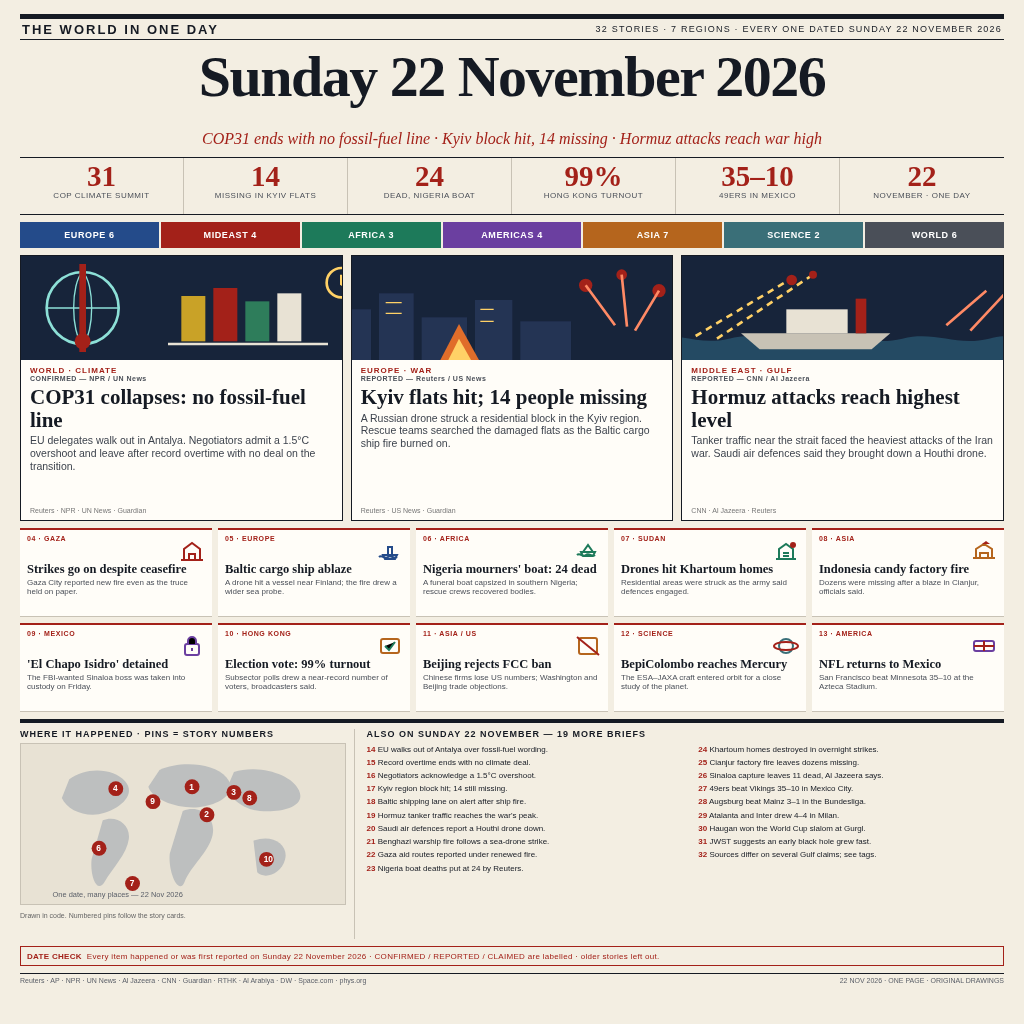
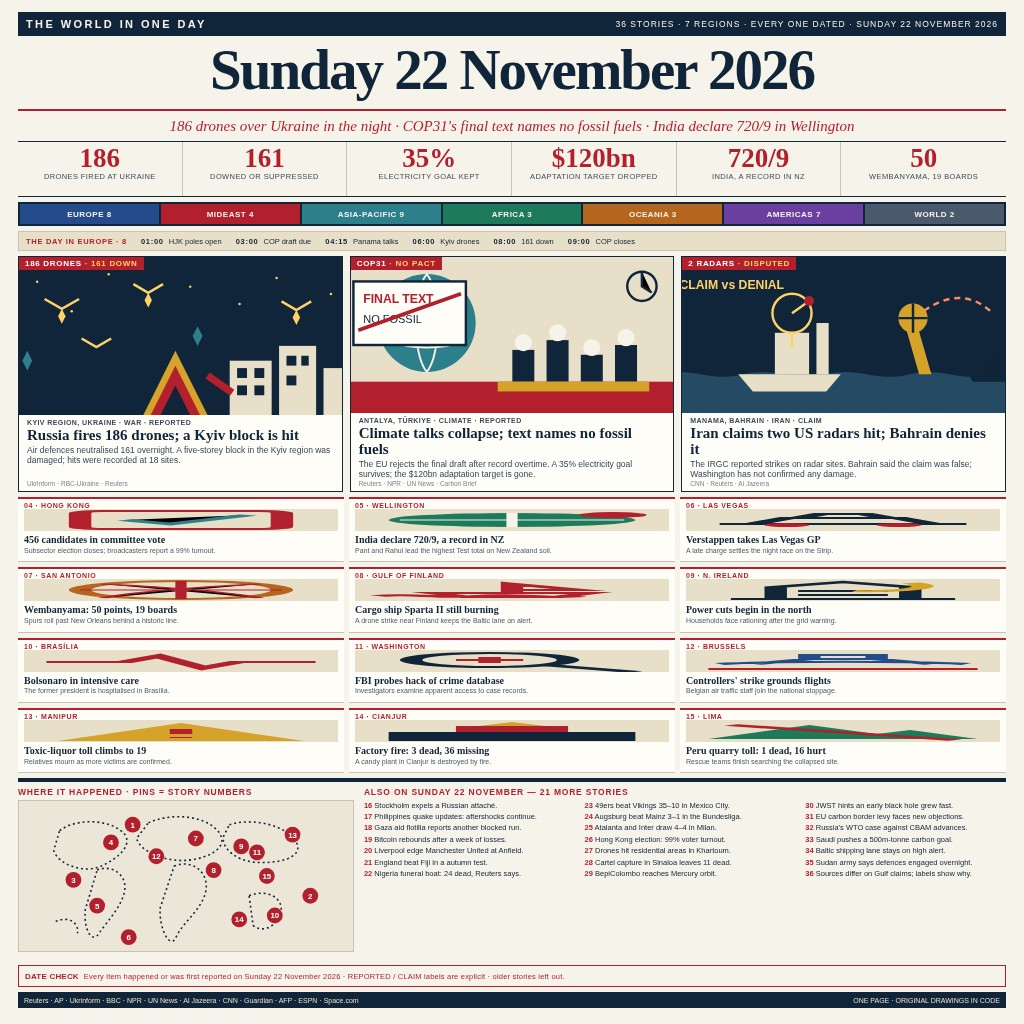
Rebuild news poster image-first with 36 stories and lower-left map

diff --git a/poster.html b/poster.html
@@ -3,187 +3,198 @@
 <style>
   *{box-sizing:border-box}
   html,body{margin:0;width:1024px;height:1024px;overflow:hidden}
-  body{font-family:'Liberation Sans',Arial,sans-serif;background:#f3eee2;color:#151a23;padding:14px 20px}
-  .page{height:996px;display:flex;flex-direction:column;gap:7px}
+  body{font-family:'Liberation Sans',Arial,sans-serif;background:#f6f3ea;color:#10243a;padding:12px 18px}
+  .page{height:996px;display:flex;flex-direction:column;gap:5px}
   .serif{font-family:Georgia,'Liberation Serif','Times New Roman',serif}
-  .masthead{height:26px;display:flex;justify-content:space-between;align-items:center;border-top:5px solid #151a23;border-bottom:1px solid #151a23;padding:0 2px}
-  .masthead b{font-size:13px;letter-spacing:2px}
-  .masthead span{font-size:9px;letter-spacing:1.2px;text-transform:uppercase}
-  .dateblock{height:74px;text-align:center}
-  .dateblock h1{font-size:58px;line-height:1.02;margin:0;font-weight:900;letter-spacing:-1.5px}
-  .deck{height:22px;text-align:center;font-size:16px;font-style:italic;color:#a32119;line-height:22px}
-  .stats{height:58px;display:grid;grid-template-columns:repeat(6,1fr);border-top:1px solid #151a23;border-bottom:1px solid #151a23}
-  .stat{text-align:center;padding:4px 4px 0;border-right:1px solid #c8c2b5}
+  .masthead{height:24px;background:#10243a;color:#f6f3ea;display:flex;justify-content:space-between;align-items:center;padding:0 8px}
+  .masthead b{font-size:11px;letter-spacing:2.4px}
+  .masthead span{font-size:8.5px;letter-spacing:1px}
+  .dateblock{height:70px;text-align:center;border-bottom:2px solid #b21f2d}
+  .dateblock h1{font-size:57px;line-height:1.03;margin:0;font-weight:900;letter-spacing:-2px}
+  .deck{height:20px;text-align:center;font-size:15px;font-style:italic;color:#b21f2d;line-height:20px}
+  .stats{height:56px;display:grid;grid-template-columns:repeat(6,1fr);border-top:1px solid #10243a;border-bottom:1px solid #10243a}
+  .stat{text-align:center;padding:3px 3px 0;border-right:1px solid #c8c2b5}
   .stat:last-child{border-right:0}
-  .stat b{display:block;font-size:29px;line-height:29px;color:#a32119;font-family:Georgia,'Liberation Serif',serif}
-  .stat span{display:block;font-size:8px;line-height:10px;text-transform:uppercase;letter-spacing:.5px;color:#4a4f58}
-  .regions{height:26px;display:grid;grid-template-columns:repeat(7,1fr);gap:2px}
-  .region{color:#fff;font-size:9px;font-weight:700;letter-spacing:.6px;display:flex;align-items:center;justify-content:center;text-transform:uppercase}
-  .leads{height:266px;display:grid;grid-template-columns:repeat(3,1fr);gap:8px}
-  .lead{border:1px solid #151a23;background:#fffdf8;display:flex;flex-direction:column;overflow:hidden}
-  .lead .art{height:104px;background:#17243a;overflow:hidden}
+  .stat b{display:block;font-size:27px;line-height:27px;color:#b21f2d;font-family:Georgia,'Liberation Serif',serif}
+  .stat span{display:block;font-size:7.5px;line-height:9px;text-transform:uppercase;letter-spacing:.4px;color:#3a4a5e}
+  .regions{height:24px;display:grid;grid-template-columns:repeat(7,1fr);gap:2px;background:#10243a;padding:2px}
+  .region{color:#f6f3ea;font-size:8px;font-weight:700;letter-spacing:.5px;display:flex;align-items:center;justify-content:center;text-transform:uppercase}
+  .timeline{height:20px;background:#e8dfc9;border:1px solid #c8c2b5;display:flex;align-items:center;gap:14px;padding:0 7px;font-size:7.5px;white-space:nowrap;overflow:hidden}
+  .timeline b{color:#b21f2d;letter-spacing:.7px}
+  .timeline span b{color:#10243a;margin-right:3px}
+  .leads{height:236px;display:grid;grid-template-columns:repeat(3,1fr);gap:7px}
+  .lead{border:1px solid #10243a;background:#fffdf7;display:flex;flex-direction:column;overflow:hidden}
+  .lead .art{height:158px;position:relative;overflow:hidden}
   .lead .art svg{width:100%;height:100%;display:block}
-  .lead .body{padding:6px 9px;flex:1;display:flex;flex-direction:column}
-  .tag{font-size:8px;font-weight:800;letter-spacing:1px;color:#a32119;text-transform:uppercase}
-  .status{font-size:7px;font-weight:700;color:#4a4f58;letter-spacing:.5px}
-  .lead h2{font-size:21px;line-height:1.08;margin:4px 0 3px;font-weight:800}
-  .lead p{font-size:10.5px;line-height:1.22;margin:0;color:#3d434d}
-  .src{font-size:7px;color:#777;margin-top:auto;padding-top:3px}
-  .secondary{height:184px;display:grid;grid-template-columns:repeat(5,1fr);grid-template-rows:repeat(2,1fr);gap:6px}
-  .cell{border-top:2px solid #a32119;background:#fffdf8;border-bottom:1px solid #c8c2b5;padding:5px 7px;overflow:hidden}
-  .cell .k{font-size:7px;font-weight:800;color:#a32119;letter-spacing:.6px;text-transform:uppercase}
-  .cell svg{width:26px;height:22px;float:right;margin-top:-2px}
-  .cell h3{font-size:12.5px;line-height:1.12;margin:3px 0 2px;font-weight:800;clear:both}
-  .cell p{font-size:8px;line-height:1.17;margin:0;color:#4a4f58}
-  .bottom{height:220px;display:grid;grid-template-columns:34% 66%;gap:12px;border-top:4px solid #151a23;padding-top:6px}
-  .mapbox{border-right:1px solid #c8c2b5;padding-right:8px}
-  .mapbox h4,.briefs h4{font-size:9px;letter-spacing:1px;margin:0 0 4px;text-transform:uppercase}
-  .mapbox svg{width:100%;height:162px;background:#e8e2d4;border:1px solid #c8c2b5}
-  .mapnote{font-size:7px;color:#666;margin-top:3px}
-  .briefs{columns:2;column-gap:14px;font-size:8px;line-height:1.28}
+  .kick{position:absolute;top:0;left:0;background:#b21f2d;color:#fff;font-size:8px;font-weight:800;letter-spacing:.7px;padding:2px 6px;text-transform:uppercase}
+  .kick span{color:#ffd166}
+  .lead .body{padding:4px 8px;flex:1;display:flex;flex-direction:column}
+  .by{font-size:7px;font-weight:700;letter-spacing:.4px;color:#3a4a5e;text-transform:uppercase}
+  .lead h2{font-size:15px;line-height:1.05;margin:2px 0 1px;font-weight:800}
+  .lead p{font-size:8.5px;line-height:1.18;margin:0;color:#33465c}
+  .src{font-size:6.5px;color:#7a8490;margin-top:auto;padding-top:1px}
+  .secondary{height:276px;display:grid;grid-template-columns:repeat(3,1fr);grid-template-rows:repeat(4,1fr);gap:5px}
+  .cell{border-top:2px solid #b21f2d;background:#fffdf7;border-bottom:1px solid #c8c2b5;padding:3px 6px;overflow:hidden;display:flex;flex-direction:column}
+  .cell .k{font-size:7px;font-weight:800;color:#b21f2d;letter-spacing:.6px;text-transform:uppercase}
+  .cell svg{width:100%;height:22px;float:none;margin:0 0 2px;display:block;background:#e8dfc9}
+  .cell h3{font-size:10px;line-height:1.08;margin:2px 0 1px;font-weight:800;clear:both}
+  .cell p{font-size:7px;line-height:1.12;margin:0;color:#4a5a6c}
+  .bottom{height:182px;display:grid;grid-template-columns:34% 66%;gap:10px;border-top:4px solid #10243a;padding-top:5px}
+  .mapbox h4,.briefs h4{font-size:8.5px;letter-spacing:.8px;margin:0 0 3px;text-transform:uppercase;color:#b21f2d}
+  .mapbox svg{width:100%;height:152px;background:#ece6d8;border:1px solid #c8c2b5}
+  .briefs{columns:3;column-gap:10px;font-size:7.5px;line-height:1.25}
   .briefs h4{column-span:all}
-  .briefs div{break-inside:avoid;margin-bottom:3px;padding-left:14px;text-indent:-14px}
-  .briefs b{color:#a32119}
-  .datacheck{height:20px;border:1px solid #a32119;color:#a32119;font-size:8px;display:flex;align-items:center;padding:0 6px;letter-spacing:.3px}
+  .briefs div{break-inside:avoid;margin-bottom:2px;padding-left:12px;text-indent:-12px}
+  .briefs b{color:#b21f2d}
+  .datacheck{height:22px;border:1px solid #b21f2d;color:#b21f2d;font-size:7.5px;display:flex;align-items:center;padding:0 6px;letter-spacing:.2px}
   .datacheck b{font-size:8px;margin-right:5px}
-  .footer{height:16px;display:flex;justify-content:space-between;font-size:7px;color:#5a5f68;border-top:1px solid #151a23;padding-top:3px}
+  .footer{height:16px;background:#10243a;color:#e8dfc9;display:flex;justify-content:space-between;align-items:center;padding:0 6px;font-size:7px}
 </style></head>
 <body><div class="page">
 
-  <div class="masthead"><b>THE WORLD IN ONE DAY</b><span>32 stories · 7 regions · every one dated Sunday 22 November 2026</span></div>
+  <div class="masthead"><b>THE WORLD IN ONE DAY</b><span>36 STORIES · 7 REGIONS · EVERY ONE DATED · SUNDAY 22 NOVEMBER 2026</span></div>
   <div class="dateblock serif"><h1>Sunday 22 November 2026</h1></div>
-  <div class="deck serif">COP31 ends with no fossil-fuel line · Kyiv block hit, 14 missing · Hormuz attacks reach war high</div>
+  <div class="deck serif">186 drones over Ukraine in the night · COP31's final text names no fossil fuels · India declare 720/9 in Wellington</div>
 
   <div class="stats">
-    <div class="stat"><b>31</b><span>COP climate summit</span></div>
-    <div class="stat"><b>14</b><span>missing in Kyiv flats</span></div>
-    <div class="stat"><b>24</b><span>dead, Nigeria boat</span></div>
-    <div class="stat"><b>99%</b><span>Hong Kong turnout</span></div>
-    <div class="stat"><b>35–10</b><span>49ers in Mexico</span></div>
-    <div class="stat"><b>22</b><span>November · one day</span></div>
+    <div class="stat"><b>186</b><span>drones fired at Ukraine</span></div>
+    <div class="stat"><b>161</b><span>downed or suppressed</span></div>
+    <div class="stat"><b>35%</b><span>electricity goal kept</span></div>
+    <div class="stat"><b>$120bn</b><span>adaptation target dropped</span></div>
+    <div class="stat"><b>720/9</b><span>India, a record in NZ</span></div>
+    <div class="stat"><b>50</b><span>Wembanyama, 19 boards</span></div>
   </div>
 
   <div class="regions">
-    <div class="region" style="background:#244b8a">Europe 6</div>
-    <div class="region" style="background:#a32119">Mideast 4</div>
+    <div class="region" style="background:#244b8a">Europe 8</div>
+    <div class="region" style="background:#b21f2d">Mideast 4</div>
+    <div class="region" style="background:#2e7f8c">Asia-Pacific 9</div>
     <div class="region" style="background:#1d7a5a">Africa 3</div>
-    <div class="region" style="background:#6b3fa0">Americas 4</div>
-    <div class="region" style="background:#b5651d">Asia 7</div>
-    <div class="region" style="background:#3a6f78">Science 2</div>
-    <div class="region" style="background:#4a4f58">World 6</div>
+    <div class="region" style="background:#b5651d">Oceania 3</div>
+    <div class="region" style="background:#6b3fa0">Americas 7</div>
+    <div class="region" style="background:#4a5a6c">World 2</div>
+  </div>
+
+  <div class="timeline"><b>THE DAY IN EUROPE · 8</b>
+    <span><b>01:00</b> HJK poles open</span><span><b>03:00</b> COP draft due</span><span><b>04:15</b> Panama talks</span><span><b>06:00</b> Kyiv drones</span><span><b>08:00</b> 161 down</span><span><b>09:00</b> COP closes</span>
   </div>
 
   <div class="leads">
     <div class="lead">
-      <div class="art"><svg viewBox="0 0 300 78" preserveAspectRatio="xMidYMid slice">
-        <rect width="300" height="78" fill="#17243a"/>
-        <circle cx="76" cy="39" r="27" fill="none" stroke="#8de0d7" stroke-width="2"/>
-        <path d="M49 39h54M76 12c9 8 9 46 0 54M76 12c-9 8-9 46 0 54" stroke="#8de0d7" fill="none"/>
-        <path d="M76 6v66" stroke="#a32119" stroke-width="5"/>
-        <circle cx="76" cy="64" r="6" fill="#a32119"/>
-        <rect x="150" y="30" width="18" height="34" fill="#c9a227"/><rect x="174" y="24" width="18" height="40" fill="#a32119"/>
-        <rect x="198" y="34" width="18" height="30" fill="#2e7d5b"/><rect x="222" y="28" width="18" height="36" fill="#e8e2d4"/>
-        <path d="M140 66h120" stroke="#e8e2d4" stroke-width="2"/>
-        <circle cx="270" cy="20" r="11" fill="none" stroke="#ffd166" stroke-width="2"/><path d="M270 14v7l5 3" stroke="#ffd166" stroke-width="2"/>
-      </svg></div>
-      <div class="body"><div class="tag">World · Climate</div><div class="status">CONFIRMED — NPR / UN News</div>
-        <h2 class="serif">COP31 collapses: no fossil-fuel line</h2>
-        <p>EU delegates walk out in Antalya. Negotiators admit a 1.5°C overshoot and leave after record overtime with no deal on the transition.</p>
-        <div class="src">Reuters · NPR · UN News · Guardian</div></div>
+      <div class="art"><svg viewBox="0 0 300 128" preserveAspectRatio="xMidYMid slice">
+        <rect width="300" height="128" fill="#10243a"/>
+        <g fill="#ffd166"><circle cx="34" cy="20" r="1"/><circle cx="92" cy="14" r="1"/><circle cx="158" cy="24" r="1"/><circle cx="228" cy="17" r="1"/><circle cx="272" cy="30" r="1"/><circle cx="62" cy="44" r="1"/><circle cx="198" cy="38" r="1"/></g>
+        <g stroke="#ffd166" stroke-width="2" fill="none"><path d="M40 34l14 8 14-8M112 22l12 7 12-7M232 36l12 7 12-7M70 66l12 7 12-7"/></g>
+        <g fill="#ffd166"><path d="M54 42l-3 6 3 6 3-6z"/><path d="M124 29l-3 6 3 6 3-6z"/><path d="M244 43l-3 6 3 6 3-6z"/></g>
+        <g fill="#2e7f8c"><path d="M26 76l-4 8 4 8 4-8z"/><path d="M164 56l-4 8 4 8 4-8z"/></g>
+        <path d="M120 128l26-52 26 52z" fill="#d6a32a"/><path d="M126 128l20-40 20 40z" fill="#b21f2d"/><path d="M134 128l12-24 12 24z" fill="#10243a"/>
+        <g fill="#e8dfc9"><rect x="190" y="84" width="34" height="44"/><rect x="230" y="72" width="30" height="56"/><rect x="266" y="90" width="28" height="38"/></g>
+        <g fill="#10243a"><rect x="196" y="90" width="8" height="8"/><rect x="210" y="90" width="8" height="8"/><rect x="196" y="104" width="8" height="8"/><rect x="210" y="104" width="8" height="8"/><rect x="236" y="80" width="8" height="8"/><rect x="248" y="80" width="6" height="8"/><rect x="236" y="96" width="8" height="8"/></g>
+        <path d="M172 96l20 14" stroke="#b21f2d" stroke-width="6"/>
+      </svg><div class="kick">186 DRONES <span>· 161 DOWN</span></div></div>
+      <div class="body"><div class="by">Kyiv region, Ukraine · War · REPORTED</div>
+        <h2 class="serif">Russia fires 186 drones; a Kyiv block is hit</h2>
+        <p>Air defences neutralised 161 overnight. A five-storey block in the Kyiv region was damaged; hits were recorded at 18 sites.</p>
+        <div class="src">Ukrinform · RBC-Ukraine · Reuters</div></div>
     </div>
     <div class="lead">
-      <div class="art"><svg viewBox="0 0 300 78" preserveAspectRatio="xMidYMid slice">
-        <rect width="300" height="78" fill="#17243a"/>
-        <g fill="#243454"><rect x="14" y="40" width="30" height="38"/><rect x="50" y="28" width="26" height="50"/><rect x="82" y="46" width="34" height="32"/><rect x="122" y="33" width="28" height="45"/><rect x="156" y="49" width="38" height="29"/></g>
-        <g stroke="#ffd166" stroke-width="1"><path d="M55 35h12M55 43h12M126 40h10M126 49h10"/></g>
-        <g fill="#a32119"><circle cx="205" cy="22" r="5"/><circle cx="232" cy="14" r="4"/><circle cx="260" cy="26" r="5"/><circle cx="280" cy="12" r="3"/></g>
-        <g stroke="#ff8a65" stroke-width="2" fill="none"><path d="M205 22l22 30M232 14l4 39M260 26l-18 30"/></g>
-        <path d="M96 78l14-27 15 27z" fill="#e06d2a"/><path d="M102 78l8-16 9 16z" fill="#ffd166"/>
-      </svg></div>
-      <div class="body"><div class="tag">Europe · War</div><div class="status">REPORTED — Reuters / US News</div>
-        <h2 class="serif">Kyiv flats hit; 14 people missing</h2>
-        <p>A Russian drone struck a residential block in the Kyiv region. Rescue teams searched the damaged flats as the Baltic cargo ship fire burned on.</p>
-        <div class="src">Reuters · US News · Guardian</div></div>
+      <div class="art"><svg viewBox="0 0 300 128" preserveAspectRatio="xMidYMid slice">
+        <rect width="300" height="128" fill="#e8dfc9"/>
+        <circle cx="80" cy="54" r="40" fill="#2e7f8c"/>
+        <g fill="none" stroke="#f6f3ea" stroke-width="1.5"><path d="M48 40c18 8 46 8 64 0M48 54c18 8 46 8 64 0M48 68c18 8 46 8 64 0M80 14c12 14 12 66 0 80M80 14c-12 14-12 66 0 80"/></g>
+        <rect x="0" y="102" width="300" height="26" fill="#b21f2d"/>
+        <g fill="#10243a"><rect x="150" y="76" width="18" height="26"/><rect x="178" y="68" width="18" height="34"/><rect x="206" y="80" width="18" height="22"/><rect x="234" y="72" width="18" height="30"/></g>
+        <g fill="#f6f3ea"><circle cx="159" cy="70" r="7"/><circle cx="187" cy="62" r="7"/><circle cx="215" cy="74" r="7"/><circle cx="243" cy="66" r="7"/></g>
+        <rect x="138" y="102" width="124" height="8" fill="#d6a32a"/>
+        <rect x="20" y="20" width="92" height="52" fill="#fffdf7" stroke="#10243a" stroke-width="2"/>
+        <text x="28" y="38" font-family="Arial" font-size="10" font-weight="bold" fill="#b21f2d">FINAL TEXT</text>
+        <text x="28" y="54" font-family="Arial" font-size="9" fill="#10243a">NO FOSSIL</text>
+        <path d="M24 60l84-30" stroke="#b21f2d" stroke-width="3"/>
+        <circle cx="256" cy="24" r="12" fill="none" stroke="#10243a" stroke-width="2"/><path d="M256 12v12l8 5" stroke="#10243a" stroke-width="2"/>
+      </svg><div class="kick">COP31 <span>· NO PACT</span></div></div>
+      <div class="body"><div class="by">Antalya, Türkiye · Climate · REPORTED</div>
+        <h2 class="serif">Climate talks collapse; text names no fossil fuels</h2>
+        <p>The EU rejects the final draft after record overtime. A 35% electricity goal survives; the $120bn adaptation target is gone.</p>
+        <div class="src">Reuters · NPR · UN News · Carbon Brief</div></div>
     </div>
     <div class="lead">
-      <div class="art"><svg viewBox="0 0 300 78" preserveAspectRatio="xMidYMid slice">
-        <rect width="300" height="78" fill="#17243a"/>
-        <path d="M0 62c25-7 40 6 65 0s40 6 65 0 40 6 65 0 40 6 65 0 30 4 40 0v16H0z" fill="#244a63"/>
-        <path d="M74 58h112l-14 12H88z" fill="#c8c2b5"/><rect x="108" y="40" width="46" height="18" fill="#e8e2d4"/><rect x="160" y="32" width="8" height="26" fill="#a32119"/>
-        <path d="M40 60l70-42M56 62l72-48" stroke="#ffd166" stroke-width="2" stroke-dasharray="5 4"/>
-        <circle cx="112" cy="18" r="4" fill="#a32119"/><circle cx="128" cy="14" r="3" fill="#a32119"/>
-        <path d="M228 52l30-26M246 56l28-30" stroke="#ff8a65" stroke-width="2"/>
-      </svg></div>
-      <div class="body"><div class="tag">Middle East · Gulf</div><div class="status">REPORTED — CNN / Al Jazeera</div>
-        <h2 class="serif">Hormuz attacks reach highest level</h2>
-        <p>Tanker traffic near the strait faced the heaviest attacks of the Iran war. Saudi air defences said they brought down a Houthi drone.</p>
-        <div class="src">CNN · Al Jazeera · Reuters</div></div>
+      <div class="art"><svg viewBox="0 0 300 128" preserveAspectRatio="xMidYMid slice">
+        <rect width="300" height="128" fill="#10243a"/>
+        <path d="M0 96c26-7 42 7 68 0s42 7 68 0 42 7 68 0 42 7 68 0 30 5 28 0v32H0z" fill="#244b63"/>
+        <g fill="#e8dfc9"><path d="M64 96h84l-12 14H76z"/><rect x="94" y="62" width="28" height="34"/><rect x="128" y="54" width="10" height="42"/></g>
+        <g fill="none" stroke="#ffd166" stroke-width="2"><circle cx="108" cy="46" r="16"/><path d="M108 46l14-10M108 62v12"/></g>
+        <circle cx="122" cy="36" r="4" fill="#b21f2d"/>
+        <g fill="#d6a32a"><path d="M212 96l-12-42h10l12 42z"/><circle cx="207" cy="50" r="12"/><path d="M195 50h24M207 38v24" stroke="#10243a" stroke-width="2"/></g>
+        <path d="M216 44c20-14 38-14 54 0" fill="none" stroke="#ff8a65" stroke-width="2" stroke-dasharray="5 4"/>
+        <g fill="#10243a"><path d="M250 92h38l-6 10h-26z"/><rect x="266" y="80" width="12" height="12"/></g>
+        <text x="16" y="26" font-family="Arial" font-size="10" font-weight="bold" fill="#ffd166">CLAIM vs DENIAL</text>
+      </svg><div class="kick">2 RADARS <span>· DISPUTED</span></div></div>
+      <div class="body"><div class="by">Manama, Bahrain · Iran · CLAIM</div>
+        <h2 class="serif">Iran claims two US radars hit; Bahrain denies it</h2>
+        <p>The IRGC reported strikes on radar sites. Bahrain said the claim was false; Washington has not confirmed any damage.</p>
+        <div class="src">CNN · Reuters · Al Jazeera</div></div>
     </div>
   </div>
 
   <div class="secondary">
-    <div class="cell"><div class="k">04 · Gaza</div><svg viewBox="0 0 26 22"><path d="M2 20h22M5 20V9l8-6 8 6v11M10 20v-6h6v6" fill="none" stroke="#a32119" stroke-width="2"/></svg><h3 class="serif">Strikes go on despite ceasefire</h3><p>Gaza City reported new fire even as the truce held on paper.</p></div>
-    <div class="cell"><div class="k">05 · Europe</div><svg viewBox="0 0 26 22"><path d="M2 17c3-3 6 3 9 0s6 3 9 0M6 15h14l-2 4H8zM11 15V7h4v8" fill="none" stroke="#244b8a" stroke-width="2"/></svg><h3 class="serif">Baltic cargo ship ablaze</h3><p>A drone hit a vessel near Finland; the fire drew a wider sea probe.</p></div>
-    <div class="cell"><div class="k">06 · Africa</div><svg viewBox="0 0 26 22"><path d="M2 15c3-3 6 3 9 0s6 3 9 0M8 12l5-7 5 7M6 12h14l-2 4H8z" fill="none" stroke="#1d7a5a" stroke-width="2"/></svg><h3 class="serif">Nigeria mourners' boat: 24 dead</h3><p>A funeral boat capsized in southern Nigeria; rescue crews recovered bodies.</p></div>
-    <div class="cell"><div class="k">07 · Sudan</div><svg viewBox="0 0 26 22"><path d="M3 19h20M6 19V9l7-5 7 5v10M10 13h6M10 16h6" fill="none" stroke="#1d7a5a" stroke-width="2"/><circle cx="20" cy="5" r="3" fill="#a32119"/></svg><h3 class="serif">Drones hit Khartoum homes</h3><p>Residential areas were struck as the army said defences engaged.</p></div>
-    <div class="cell"><div class="k">08 · Asia</div><svg viewBox="0 0 26 22"><path d="M2 18h22M5 18V9l8-5 8 5v9M9 18v-5h8v5" fill="none" stroke="#b5651d" stroke-width="2"/><path d="M11 4l4-3 4 3" fill="#a32119"/></svg><h3 class="serif">Indonesia candy factory fire</h3><p>Dozens were missing after a blaze in Cianjur, officials said.</p></div>
-    <div class="cell"><div class="k">09 · Mexico</div><svg viewBox="0 0 26 22"><rect x="6" y="9" width="14" height="11" rx="2" fill="none" stroke="#6b3fa0" stroke-width="2"/><path d="M9 9V6a4 4 0 018 0v3M13 13v3" stroke="#6b3fa0" stroke-width="2"/></svg><h3 class="serif">'El Chapo Isidro' detained</h3><p>The FBI-wanted Sinaloa boss was taken into custody on Friday.</p></div>
-    <div class="cell"><div class="k">10 · Hong Kong</div><svg viewBox="0 0 26 22"><rect x="4" y="4" width="18" height="14" rx="2" fill="none" stroke="#b5651d" stroke-width="2"/><path d="M8 11l4 4 6-8" stroke="#1d7a5a" stroke-width="2"/></svg><h3 class="serif">Election vote: 99% turnout</h3><p>Subsector polls drew a near-record number of voters, broadcasters said.</p></div>
-    <div class="cell"><div class="k">11 · Asia / US</div><svg viewBox="0 0 26 22"><rect x="4" y="3" width="18" height="16" rx="2" fill="none" stroke="#b5651d" stroke-width="2"/><path d="M2 2l22 18" stroke="#a32119" stroke-width="2"/></svg><h3 class="serif">Beijing rejects FCC ban</h3><p>Chinese firms lose US numbers; Washington and Beijing trade objections.</p></div>
-    <div class="cell"><div class="k">12 · Science</div><svg viewBox="0 0 26 22"><circle cx="13" cy="11" r="7" fill="none" stroke="#3a6f78" stroke-width="2"/><ellipse cx="13" cy="11" rx="12" ry="4" fill="none" stroke="#a32119" stroke-width="2"/></svg><h3 class="serif">BepiColombo reaches Mercury</h3><p>The ESA–JAXA craft entered orbit for a close study of the planet.</p></div>
-    <div class="cell"><div class="k">13 · America</div><svg viewBox="0 0 26 22"><rect x="3" y="6" width="20" height="10" rx="2" fill="none" stroke="#6b3fa0" stroke-width="2"/><path d="M13 6v10M3 11h20" stroke="#a32119" stroke-width="2"/></svg><h3 class="serif">NFL returns to Mexico</h3><p>San Francisco beat Minnesota 35–10 at the Azteca Stadium.</p></div>
+    <div class="cell"><div class="k">04 · Hong Kong</div><svg viewBox="0 0 28 22" preserveAspectRatio="none"><rect x="5" y="2" width="18" height="18" rx="2" fill="none" stroke="#b21f2d" stroke-width="2"/><path d="M9 11l4 4 7-9" stroke="#2e7f8c" stroke-width="2"/></svg><h3 class="serif">456 candidates in committee vote</h3><p>Subsector election closes; broadcasters report a 99% turnout.</p></div>
+    <div class="cell"><div class="k">05 · Wellington</div><svg viewBox="0 0 28 22" preserveAspectRatio="none"><ellipse cx="14" cy="11" rx="11" ry="7" fill="#1d7a5a"/><circle cx="23" cy="6" r="3" fill="#b21f2d"/><path d="M4 11h20M14 4v14" stroke="#f6f3ea" stroke-width="1"/></svg><h3 class="serif">India declare 720/9, a record in NZ</h3><p>Pant and Rahul lead the highest Test total on New Zealand soil.</p></div>
+    <div class="cell"><div class="k">06 · Las Vegas</div><svg viewBox="0 0 28 22" preserveAspectRatio="none"><path d="M3 15h22M6 15l3-6h10l3 6M10 9l2-4h4l2 4" fill="none" stroke="#10243a" stroke-width="2"/><circle cx="9" cy="16" r="2" fill="#b21f2d"/><circle cx="19" cy="16" r="2" fill="#b21f2d"/></svg><h3 class="serif">Verstappen takes Las Vegas GP</h3><p>A late charge settles the night race on the Strip.</p></div>
+    <div class="cell"><div class="k">07 · San Antonio</div><svg viewBox="0 0 28 22" preserveAspectRatio="none"><circle cx="14" cy="11" r="9" fill="none" stroke="#b5651d" stroke-width="2"/><path d="M14 2v18M5 11h18M7 5c6 3 12 9 14 14M21 5C15 8 9 14 7 19" stroke="#b21f2d" stroke-width="1"/></svg><h3 class="serif">Wembanyama: 50 points, 19 boards</h3><p>Spurs roll past New Orleans behind a historic line.</p></div>
+    <div class="cell"><div class="k">08 · Gulf of Finland</div><svg viewBox="0 0 28 22" preserveAspectRatio="none"><path d="M2 17c3-3 6 3 9 0s6 3 9 0M7 14h14l-3 4H10zM14 14V5l6 6h-6" fill="none" stroke="#b21f2d" stroke-width="2"/></svg><h3 class="serif">Cargo ship Sparta II still burning</h3><p>A drone strike near Finland keeps the Baltic lane on alert.</p></div>
+    <div class="cell"><div class="k">09 · N. Ireland</div><svg viewBox="0 0 28 22" preserveAspectRatio="none"><path d="M4 20h20M8 20V8l6-5 6 5v12M10 12h8M10 16h8" fill="none" stroke="#10243a" stroke-width="2"/><path d="M20 4a5 5 0 01-5 8" fill="none" stroke="#d6a32a" stroke-width="2"/></svg><h3 class="serif">Power cuts begin in the north</h3><p>Households face rationing after the grid warning.</p></div>
+    <div class="cell"><div class="k">10 · Brasília</div><svg viewBox="0 0 28 22" preserveAspectRatio="none"><path d="M2 12h7l3-6 4 12 3-6h7" fill="none" stroke="#b21f2d" stroke-width="2"/></svg><h3 class="serif">Bolsonaro in intensive care</h3><p>The former president is hospitalised in Brasília.</p></div>
+    <div class="cell"><div class="k">11 · Washington</div><svg viewBox="0 0 28 22" preserveAspectRatio="none"><circle cx="12" cy="10" r="7" fill="none" stroke="#10243a" stroke-width="2"/><path d="M17 15l8 7" stroke="#10243a" stroke-width="2"/><path d="M9 10h6M12 7v6" stroke="#b21f2d" stroke-width="2"/></svg><h3 class="serif">FBI probes hack of crime database</h3><p>Investigators examine apparent access to case records.</p></div>
+    <div class="cell"><div class="k">12 · Brussels</div><svg viewBox="0 0 28 22" preserveAspectRatio="none"><path d="M3 14c6-3 16-3 22 0M6 14l5-5h6l5 5M11 9V5h6v4" fill="none" stroke="#244b8a" stroke-width="2"/><path d="M2 19h24" stroke="#b21f2d" stroke-width="2"/></svg><h3 class="serif">Controllers' strike grounds flights</h3><p>Belgian air traffic staff join the national stoppage.</p></div>
+    <div class="cell"><div class="k">13 · Manipur</div><svg viewBox="0 0 28 22" preserveAspectRatio="none"><path d="M14 3l11 18H3z" fill="#d6a32a"/><path d="M14 9v5M14 17v1" stroke="#b21f2d" stroke-width="2"/></svg><h3 class="serif">Toxic-liquor toll climbs to 19</h3><p>Relatives mourn as more victims are confirmed.</p></div>
+    <div class="cell"><div class="k">14 · Cianjur</div><svg viewBox="0 0 28 22" preserveAspectRatio="none"><rect x="3" y="12" width="22" height="9" fill="#10243a"/><path d="M9 12V6h10v6" fill="#b21f2d"/><path d="M14 2l3 4h-6z" fill="#d6a32a"/></svg><h3 class="serif">Factory fire: 3 dead, 36 missing</h3><p>A candy plant in Cianjur is destroyed by fire.</p></div>
+    <div class="cell"><div class="k">15 · Lima</div><svg viewBox="0 0 28 22" preserveAspectRatio="none"><path d="M2 19l9-14 6 9 3-4 6 9z" fill="#1d7a5a"/><path d="M4 5l20 15" stroke="#b21f2d" stroke-width="2"/></svg><h3 class="serif">Peru quarry toll: 1 dead, 16 hurt</h3><p>Rescue teams finish searching the collapsed site.</p></div>
   </div>
 
   <div class="bottom">
     <div class="mapbox"><h4>Where it happened · pins = story numbers</h4>
-      <svg viewBox="0 0 300 172" preserveAspectRatio="xMidYMid meet">
-        <rect width="300" height="172" fill="#e8e2d4"/>
-        <g fill="#9aa3ae" opacity=".55">
-          <path d="M28 38c18-14 48-12 60 2s-4 28-22 34-40-2-46-16z"/>
-          <path d="M64 82c14-6 30 4 28 20s-18 32-26 46-16-6-14-24z"/>
-          <path d="M125 28c22-10 58-8 72 8s-8 30-30 32-50-8-54-22z"/>
-          <path d="M150 72c20-8 36 8 32 26s-24 34-30 50-18-10-16-30z"/>
-          <path d="M205 30c26-8 62 2 70 20s-20 24-42 22-36-18-34-28z"/>
-          <path d="M226 104c20-8 38 4 34 20s-22 22-30 14z"/>
+      <svg viewBox="0 0 300 152" preserveAspectRatio="xMidYMid meet">
+        <rect width="300" height="152" fill="#ece6d8"/>
+        <g fill="none" stroke="#10243a" stroke-width="1.6" stroke-dasharray="2 3">
+          <path d="M22 30c16-12 46-12 62 0s-2 28-20 36-44-2-48-16z"/>
+          <path d="M60 70c14-6 30 4 28 20s-18 32-26 44-16-6-14-24z"/>
+          <path d="M112 22c22-10 56-8 70 8s-8 28-30 30-48-8-52-22z"/>
+          <path d="M138 66c20-8 36 8 32 26s-24 32-30 46-18-10-16-30z"/>
+          <path d="M194 24c26-8 60 2 68 18s-20 22-42 20-34-16-32-26z"/>
+          <path d="M214 96c20-8 36 4 32 18s-20 20-28 12z"/>
+          <path d="M18 122c14-6 24 2 22 12"/>
         </g>
-        <g fill="#a32119" font-family="Arial" font-size="9" font-weight="bold">
-          <circle cx="78" cy="48" r="8"/><text x="75" y="51" fill="#fff">4</text>
-          <circle cx="60" cy="112" r="8"/><text x="57" y="115" fill="#fff">6</text>
-          <circle cx="96" cy="150" r="8"/><text x="93" y="153" fill="#fff">7</text>
-          <circle cx="160" cy="46" r="8"/><text x="157" y="49" fill="#fff">1</text>
-          <circle cx="176" cy="76" r="8"/><text x="173" y="79" fill="#fff">2</text>
-          <circle cx="205" cy="52" r="8"/><text x="202" y="55" fill="#fff">3</text>
-          <circle cx="240" cy="124" r="8"/><text x="237" y="127" fill="#fff">10</text>
-          <circle cx="222" cy="58" r="8"/><text x="219" y="61" fill="#fff">8</text>
-          <circle cx="118" cy="62" r="8"/><text x="115" y="65" fill="#fff">9</text>
+        <g font-family="Arial" font-size="8" font-weight="bold" text-anchor="middle">
+          <g fill="#b21f2d"><circle cx="74" cy="42" r="8"/><circle cx="60" cy="106" r="8"/><circle cx="92" cy="138" r="8"/><circle cx="160" cy="38" r="8"/><circle cx="178" cy="70" r="8"/><circle cx="206" cy="46" r="8"/><circle cx="240" cy="116" r="8"/><circle cx="222" cy="52" r="8"/><circle cx="120" cy="56" r="8"/><circle cx="258" cy="34" r="8"/><circle cx="204" cy="120" r="8"/><circle cx="232" cy="76" r="8"/><circle cx="96" cy="24" r="8"/><circle cx="276" cy="96" r="8"/><circle cx="36" cy="80" r="8"/></g>
+          <g fill="#fff"><text x="74" y="45">4</text><text x="60" y="109">5</text><text x="92" y="141">6</text><text x="160" y="41">7</text><text x="178" y="73">8</text><text x="206" y="49">9</text><text x="240" y="119">10</text><text x="222" y="55">11</text><text x="120" y="59">12</text><text x="258" y="37">13</text><text x="204" y="123">14</text><text x="232" y="79">15</text><text x="96" y="27">1</text><text x="276" y="99">2</text><text x="36" y="83">3</text></g>
         </g>
-        <text x="10" y="164" font-family="Arial" font-size="8" fill="#5a5f68">One date, many places — 22 Nov 2026</text>
       </svg>
-      <div class="mapnote">Drawn in code. Numbered pins follow the story cards.</div>
     </div>
-    <div class="briefs"><h4>Also on Sunday 22 November — 19 more briefs</h4>
-      <div><b>14</b> EU walks out of Antalya over fossil-fuel wording.</div>
-      <div><b>15</b> Record overtime ends with no climate deal.</div>
-      <div><b>16</b> Negotiators acknowledge a 1.5°C overshoot.</div>
-      <div><b>17</b> Kyiv region block hit; 14 still missing.</div>
-      <div><b>18</b> Baltic shipping lane on alert after ship fire.</div>
-      <div><b>19</b> Hormuz tanker traffic reaches the war's peak.</div>
-      <div><b>20</b> Saudi air defences report a Houthi drone down.</div>
-      <div><b>21</b> Benghazi warship fire follows a sea-drone strike.</div>
-      <div><b>22</b> Gaza aid routes reported under renewed fire.</div>
-      <div><b>23</b> Nigeria boat deaths put at 24 by Reuters.</div>
-      <div><b>24</b> Khartoum homes destroyed in overnight strikes.</div>
-      <div><b>25</b> Cianjur factory fire leaves dozens missing.</div>
-      <div><b>26</b> Sinaloa capture leaves 11 dead, Al Jazeera says.</div>
-      <div><b>27</b> 49ers beat Vikings 35–10 in Mexico City.</div>
-      <div><b>28</b> Augsburg beat Mainz 3–1 in the Bundesliga.</div>
-      <div><b>29</b> Atalanta and Inter drew 4–4 in Milan.</div>
-      <div><b>30</b> Haugan won the World Cup slalom at Gurgl.</div>
-      <div><b>31</b> JWST suggests an early black hole grew fast.</div>
-      <div><b>32</b> Sources differ on several Gulf claims; see tags.</div>
+    <div class="briefs"><h4>Also on Sunday 22 November — 21 more stories</h4>
+      <div><b>16</b> Stockholm expels a Russian attaché.</div>
+      <div><b>17</b> Philippines quake updates: aftershocks continue.</div>
+      <div><b>18</b> Gaza aid flotilla reports another blocked run.</div>
+      <div><b>19</b> Bitcoin rebounds after a week of losses.</div>
+      <div><b>20</b> Liverpool edge Manchester United at Anfield.</div>
+      <div><b>21</b> England beat Fiji in a autumn test.</div>
+      <div><b>22</b> Nigeria funeral boat: 24 dead, Reuters says.</div>
+      <div><b>23</b> 49ers beat Vikings 35–10 in Mexico City.</div>
+      <div><b>24</b> Augsburg beat Mainz 3–1 in the Bundesliga.</div>
+      <div><b>25</b> Atalanta and Inter draw 4–4 in Milan.</div>
+      <div><b>26</b> Hong Kong election: 99% voter turnout.</div>
+      <div><b>27</b> Drones hit residential areas in Khartoum.</div>
+      <div><b>28</b> Cartel capture in Sinaloa leaves 11 dead.</div>
+      <div><b>29</b> BepiColombo reaches Mercury orbit.</div>
+      <div><b>30</b> JWST hints an early black hole grew fast.</div>
+      <div><b>31</b> EU carbon border levy faces new objections.</div>
+      <div><b>32</b> Russia's WTO case against CBAM advances.</div>
+      <div><b>33</b> Saudi pushes a 500m-tonne carbon goal.</div>
+      <div><b>34</b> Baltic shipping lane stays on high alert.</div>
+      <div><b>35</b> Sudan army says defences engaged overnight.</div>
+      <div><b>36</b> Sources differ on Gulf claims; labels show why.</div>
     </div>
   </div>
 
-  <div class="datacheck"><b>DATE CHECK</b> Every item happened or was first reported on Sunday 22 November 2026 · CONFIRMED / REPORTED / CLAIMED are labelled · older stories left out.</div>
-  <div class="footer"><span>Reuters · AP · NPR · UN News · Al Jazeera · CNN · Guardian · RTHK · Al Arabiya · DW · Space.com · phys.org</span><span>22 NOV 2026 · ONE PAGE · ORIGINAL DRAWINGS</span></div>
+  <div class="datacheck"><b>DATE CHECK</b> Every item happened or was first reported on Sunday 22 November 2026 · REPORTED / CLAIM labels are explicit · older stories left out.</div>
+  <div class="footer"><span>Reuters · AP · Ukrinform · BBC · NPR · UN News · Al Jazeera · CNN · Guardian · AFP · ESPN · Space.com</span><span>ONE PAGE · ORIGINAL DRAWINGS IN CODE</span></div>
 </div></body></html>
